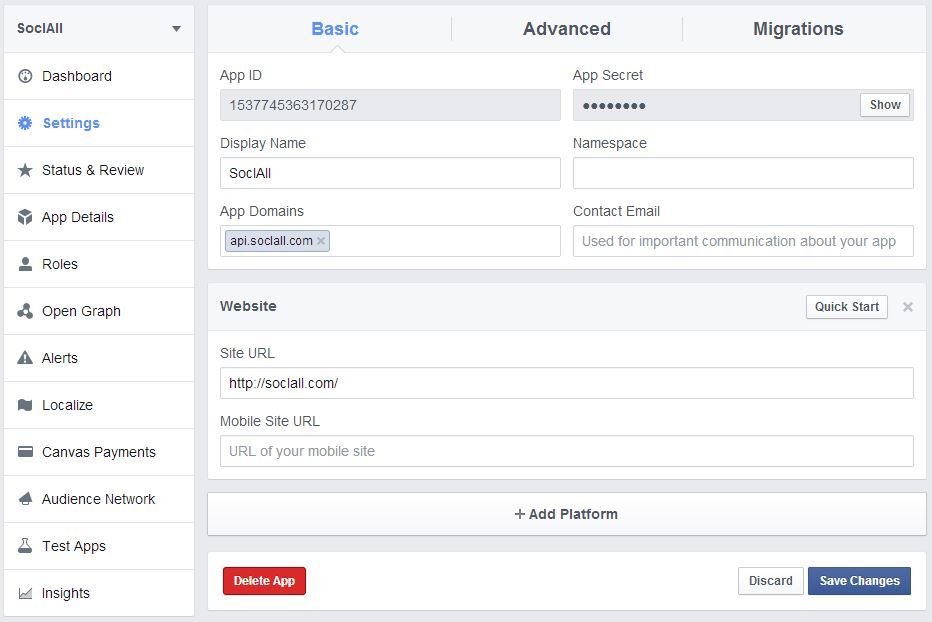
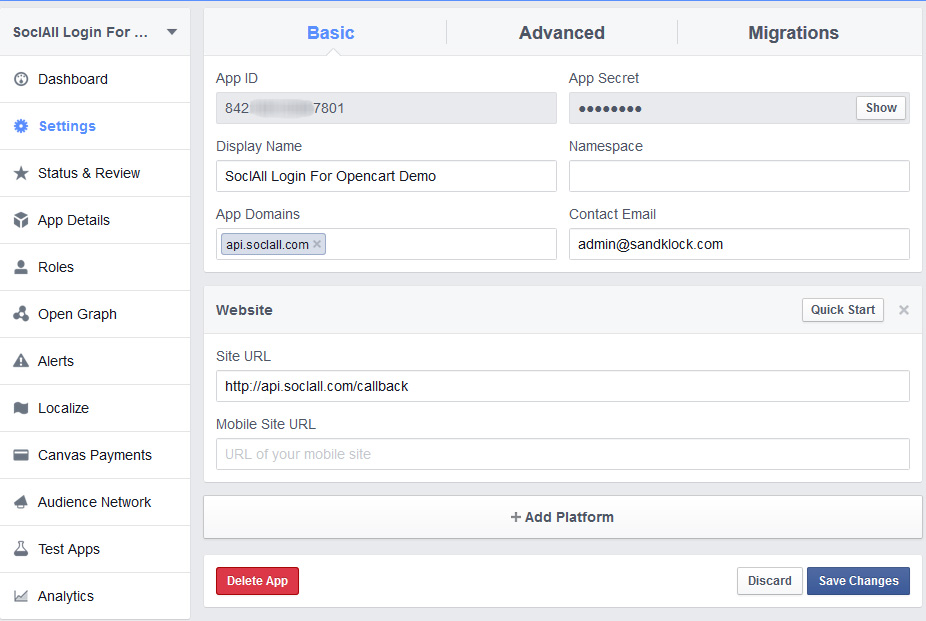
Update step fill contact email and check live mod

diff --git a/docs/user-guide/facebook.md b/docs/user-guide/facebook.md
@@ -12,9 +12,14 @@ __To register an application on Facebook, please follow all steps below:__
 4. Press button "Skip Quick Start" and go to page "App Setting".
 5. Select menu "Settings", and fill the information below:
     * App Domains: __api.soclall.com__
+    * Contact Email: __(your email)__
     * Site URL: __http://api.soclall.com/callback__  
 
     ![Facebook : Setting Page](/img/facebook-3-setting-page.JPG)
     <div class="soclall-br"></div>
     
-6. In the Settings page, you can also get "App ID" and "App Secret" to fill SoclAll Facebook Settings form.
+6.  Select menu "Status & Review", and in tab "Status", press button "No" change to "Yes" on first block. 
+    <div class="soclall-br"></div>
+    ![Facebook : Status Page](/img/facebook-4-status-page.JPG)
+    <div class="soclall-br"></div>    
+7. In the Settings page, you can also get "App ID" and "App Secret" to fill SoclAll Facebook Settings form.
